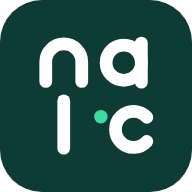
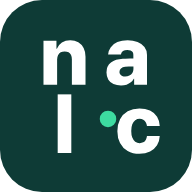
앱 아이콘 글자를 로고와 같은 Pretendard 굵은 글꼴 모양으로
Claude-Session: https://claude.ai/code/session_01LFfJu9RsvY72ySUsHfD7Fr

diff --git a/src/app/manifest.ts b/src/app/manifest.ts
@@ -13,9 +13,9 @@ export default function manifest(): MetadataRoute.Manifest {
     theme_color: "#0E3B36",
     lang: "ko",
     icons: [
-      { src: "/icon-v2-192.png", sizes: "192x192", type: "image/png" },
-      { src: "/icon-v2-512.png", sizes: "512x512", type: "image/png" },
-      { src: "/icon-v2-maskable-512.png", sizes: "512x512", type: "image/png", purpose: "maskable" },
+      { src: "/icon-v3-192.png", sizes: "192x192", type: "image/png" },
+      { src: "/icon-v3-512.png", sizes: "512x512", type: "image/png" },
+      { src: "/icon-v3-maskable-512.png", sizes: "512x512", type: "image/png", purpose: "maskable" },
     ],
   };
 }

diff --git a/public/sw.js b/public/sw.js
@@ -12,8 +12,8 @@ self.addEventListener("push", (e) => {
   e.waitUntil(
     self.registration.showNotification(data.title || "트립날씨", {
       body: data.body || "",
-      icon: "/icon-v2-192.png",
-      badge: "/icon-v2-192.png",
+      icon: "/icon-v3-192.png",
+      badge: "/icon-v3-192.png",
       tag: data.tag,
       data: { url: data.url || "/" },
     }),
